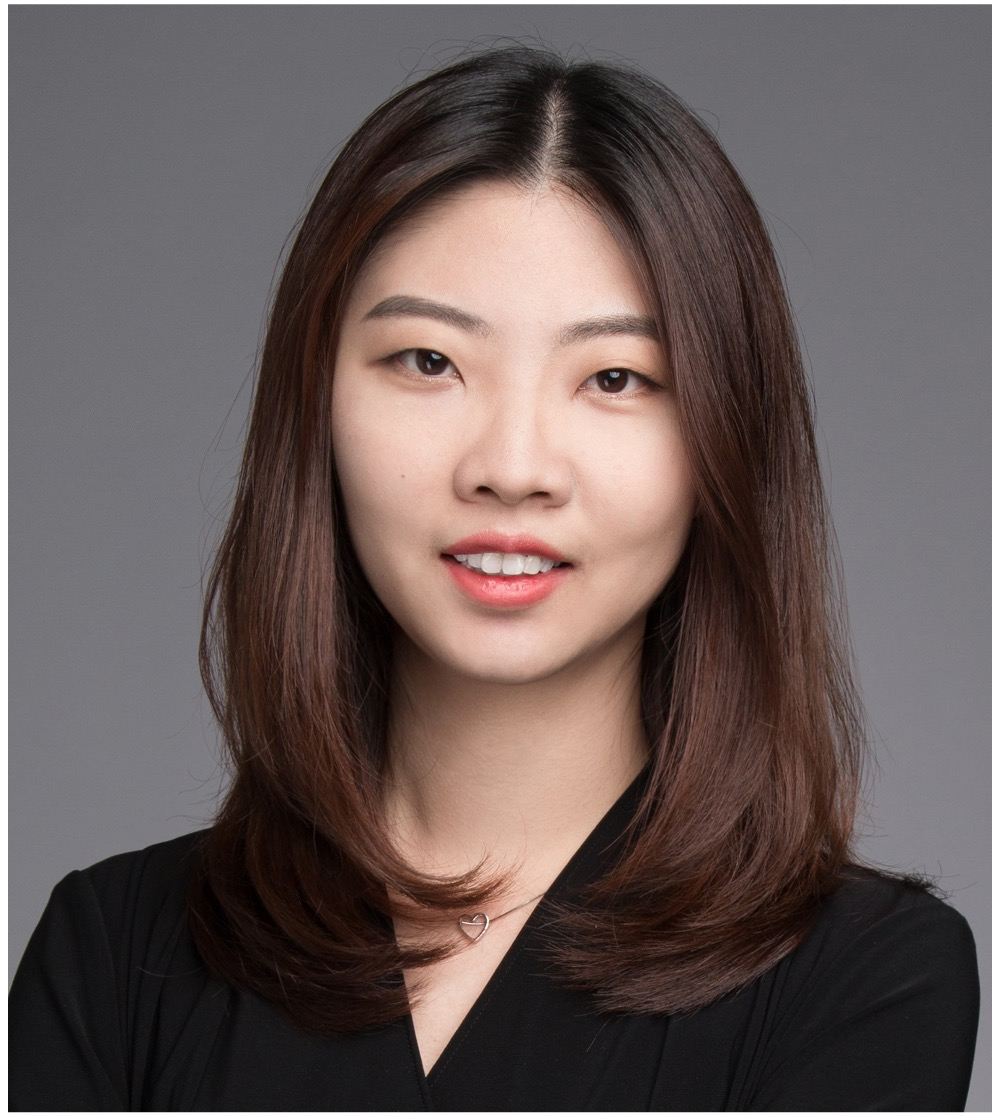
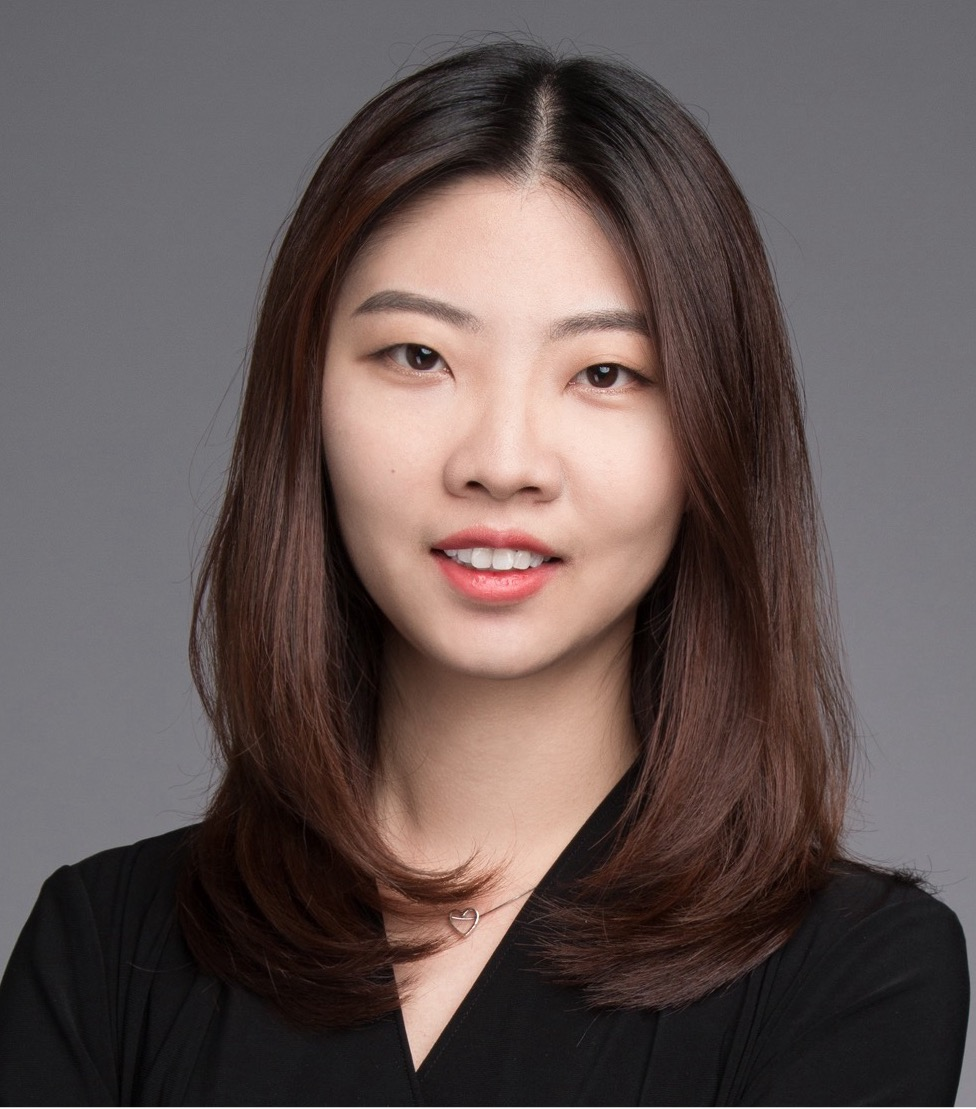
fig

diff --git a/index.html b/index.html
@@ -21,6 +21,13 @@
 	<script src="./js/blocs.min.js?7153"></script>
 	<script src="./js/lazysizes.min.js" defer></script>
     <title>MICCAI 2024 - DeCaF</title>
+	<style>
+        .team-photo {
+            width: 100px;  /* width */
+            height: 100px; /* height */
+            object-fit: cover; 
+        }
+    </style>
 	
 
 
@@ -545,7 +552,7 @@ Dr. Condat's main area of interest is optimization and its application to signal
 						</p>
 					</div>
 					<div class="col-lg-3">
-						<img src="img/lazyload-ph.png" data-src="img/shadi.jpg" class="img-fluid rounded-circle img-holg-style mx-auto d-block lazyload" />
+						<img src="img/lazyload-ph.png" data-src="img/shadi.jpg" class="img-fluid rounded-circle team-photo mx-auto d-block lazyload" />
 					</div>
 				</div>
 				<div class="row voffset">
@@ -558,14 +565,14 @@ Dr. Condat's main area of interest is optimization and its application to signal
 						</p>
 					</div>
 					<div class="col-lg-3">
-						<img src="img/lazyload-ph.png" data-src="img/xiaoxiao.jpg" class="img-fluid rounded-circle img-faus-style mx-auto d-block lazyload" />
+						<img src="img/lazyload-ph.png" data-src="img/xiaoxiao.jpg" class="img-fluid rounded-circle team-photo mx-auto d-block lazyload" />
 					</div>
 				</div>
 				<div class="row voffset">
 					<div class="col-lg-3">
-						<img src="img/lazyload-ph.png" data-src="img/nicola.jpg" class="img-fluid rounded-circle img-nico-style mx-auto d-block lazyload" />
+						<img src="img/lazyload-ph.png" data-src="img/nicola.jpg" class="img-fluid rounded-circle team-photo mx-auto d-block lazyload" />
 					</div>
-					<div class="col align-self-center">
+					<div class="col order-2 align-self-center">
 						<h4 class="text-center text-lg-left">
 							<a href="https://www.linkedin.com/in/nicola-rieke">Nicola Rieke</a>
 						</h4>
@@ -643,20 +650,20 @@ Dr. Condat's main area of interest is optimization and its application to signal
 						</p>
 					</div>
 					<div class="col-lg-3">
-						<img src="img/lazyload-ph.png" data-src="img/spyros.jpg" class="img-fluid rounded-circle img-spyr-style mx-auto d-block lazyload" />
+						<img src="img/lazyload-ph.png" data-src="img/spyros.jpg" class="img-fluid rounded-circle team-photo mx-auto d-block lazyload" />
 					</div>
 				</div>
 				<div class="row voffset">
-					<div class="col-lg-3">
-						<img src="img/lazyload-ph.png" data-src="img/qidou.jpg" class="img-fluid rounded-circle img-qidou-style mx-auto d-block lazyload" />
-					</div>
-					<div class="col order-1 align-self-center">
+					<div class="col order-2 align-self-center">
 						<h4 class="text-center text-lg-left">
 							<a href="https://www.cse.cuhk.edu.hk/~qdou/">Qi Dou</a>
 						</h4>
 						<p class="text-center text-lg-left">
 							Chinese University of Hong Kong, China
 						</p>
+					</div>
+					<div class="col-lg-3">
+						<img src="img/lazyload-ph.png" data-src="img/qidou.jpg" class="img-fluid rounded-circle team-photo mx-auto d-block lazyload" />
 					</div>
 				</div>
 				<!-- <div class="row voffset">
@@ -699,7 +706,7 @@ Dr. Condat's main area of interest is optimization and its application to signal
 						</p>
 					</div>
 					<div class="col-lg-3">
-						<img src="img/lazyload-ph.png" data-src="img/holger.jpg" class="img-fluid rounded-circle img-holg-style mx-auto d-block lazyload" />
+						<img src="img/lazyload-ph.png" data-src="img/holger.jpg" class="img-fluid rounded-circle team-photo mx-auto d-block lazyload" />
 					</div>
 				</div>
 			</div>
